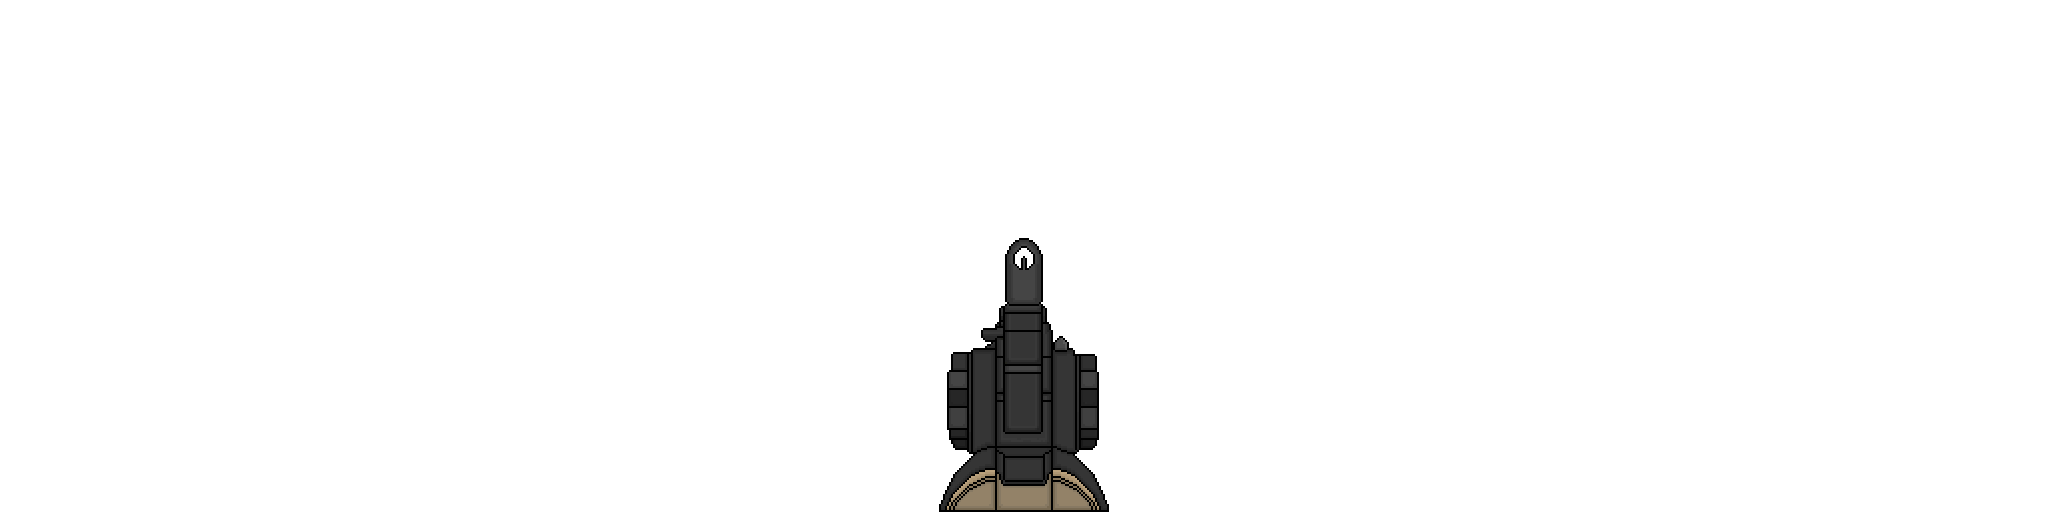
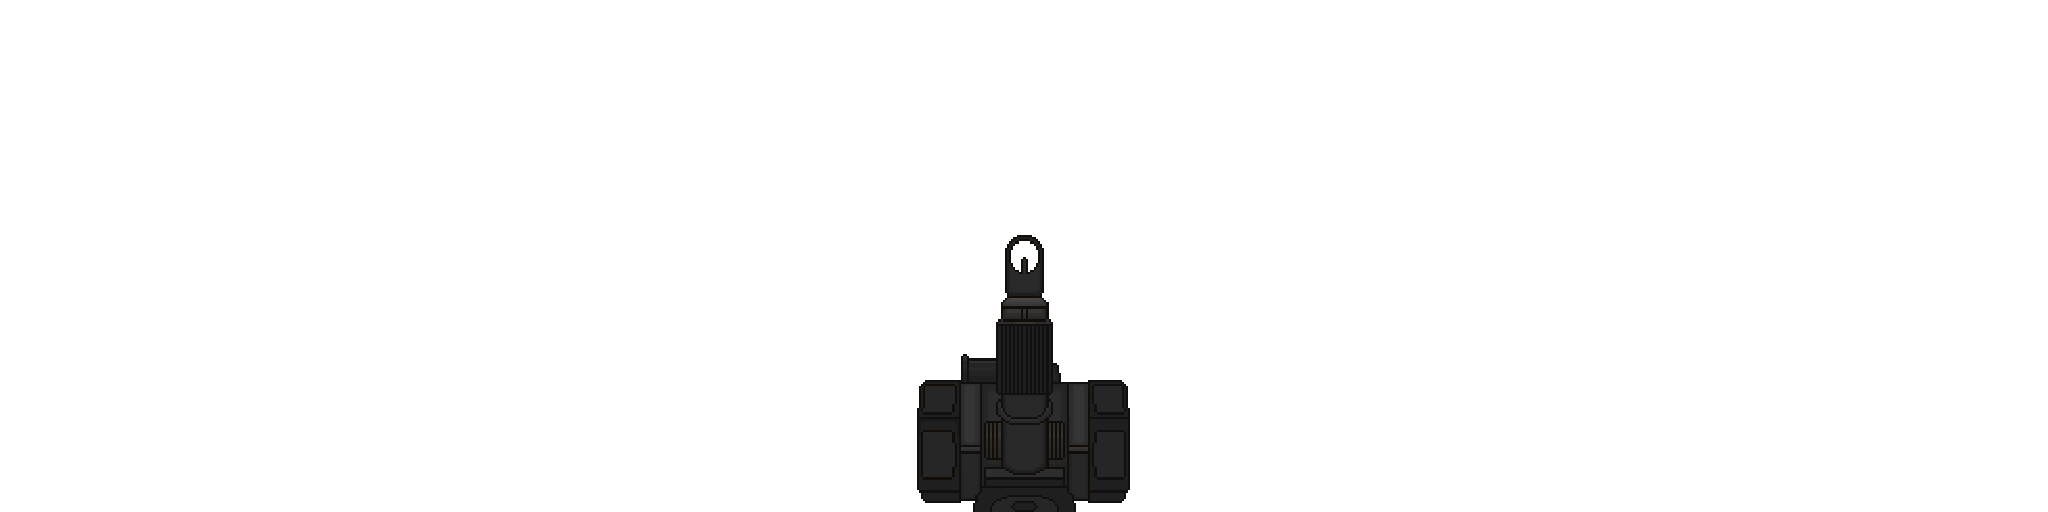
Change AA12 texture; Update FNSCAR aim image; Update AUG aim image; Added MP5 aim image

Changed region(s): [[0.4375, 0.4688, 0.5625, 1.0]]

diff --git a/src/DesnoGuns_Main.js b/src/DesnoGuns_Main.js
@@ -1614,6 +1614,8 @@ const MP5 = {
 	bulletSpeed: ASSAULT_BULLET_SPEED,
 	accuracy: 2.5,
 	zoomLevel: ZOOM_MACHINE,
+	hasAimImageLayer: true,
+	customAimImageLayerPath: "/images/desnoguns-scopes/mp5.png",
 	texture: "mp5",
 	ammo: 30,
 	smoke: 1,
